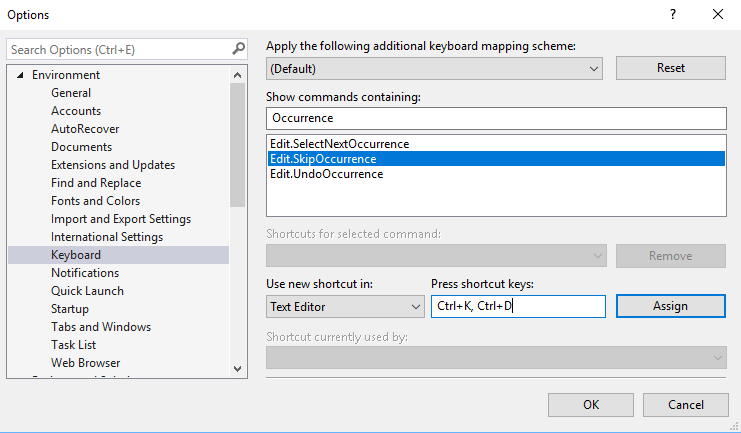
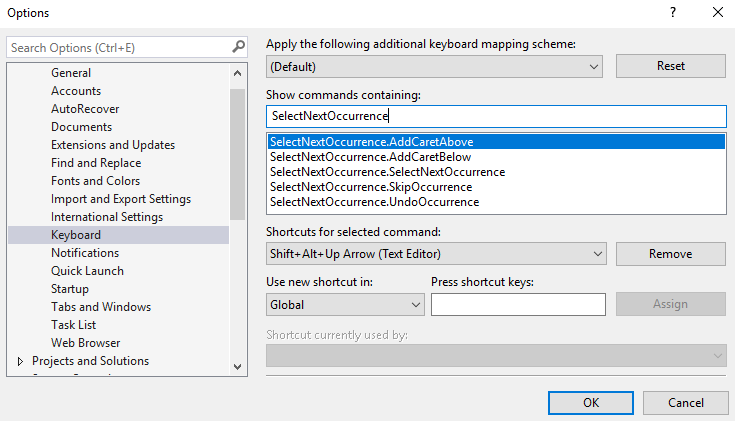
Updating Readme with new keybinding-instructions, adding link to latest CI-build

diff --git a/README.md b/README.md
@@ -1,7 +1,7 @@
 [![Build status](https://ci.appveyor.com/api/projects/status/66dy10xgquyw3y7x?svg=true)](https://ci.appveyor.com/project/2mas/selectnextoccurrence)
 # Select Next Occurrence
 
-Download this extension from the [VS Gallery](https://marketplace.visualstudio.com/items?itemName=thomaswelen.SelectNextOccurrence).
+Download this extension from the [VS Gallery](https://marketplace.visualstudio.com/items?itemName=thomaswelen.SelectNextOccurrence) or get the latest [CI-build](http://vsixgallery.com/extension/NextOccurrence.b213c4e9-b96f-4f9d-b1d6-fa8bc7e9da21/).
 
 ---------------------------------------
 
@@ -16,6 +16,7 @@ See the [change log/roadmap](CHANGELOG.md) for changes and Roadmap.
 - Select next occurrence of current selection. 
 - Skip occurrence
 - Undo occurrence
+- Add caret above/below
 - Use multiple carets to edit
   - Alt-Click to add caret
 
@@ -27,9 +28,11 @@ Toggle case-sensitive search by using the "Match case" setting from the find-dia
 ### Key-bindings
 Go to Tools -> Options -> Keyboard and search for these command names to edit at your choice. Make sure the _Use new shortcut in_ is set to: ***Text Editor***
 
-- ```Edit.SelectNextOccurrence``` is bound to ***Ctrl+D*** by default.
-- ```Edit.SkipOccurrence``` is ***not bound*** by default. *(Recommended Ctrl+K, Ctrl+D)*
-- ```Edit.UndoOccurrence``` is ***not bound*** by default. *(Recommended Ctrl+U)*
+- ```SelectNextOccurrence.SelectNextOccurrence``` is bound to ***Ctrl+D*** by default.
+- ```SelectNextOccurrence.SkipOccurrence``` is ***not bound*** by default. *(Recommended Ctrl+K, Ctrl+D)*
+- ```SelectNextOccurrence.UndoOccurrence``` is ***not bound*** by default. *(Recommended Ctrl+U)*
+- ```SelectNextOccurrence.AddCaretAbove``` is ***not bound*** by default. *(Recommended Shift+Alt+Up)*
+- ```SelectNextOccurrence.AddCaretBelow``` is ***not bound*** by default. *(Recommended Shift+Alt+Down)*
 
 ![Select Next Occurrence Keyboard bindings](kbd_shortcuts.png)
 
